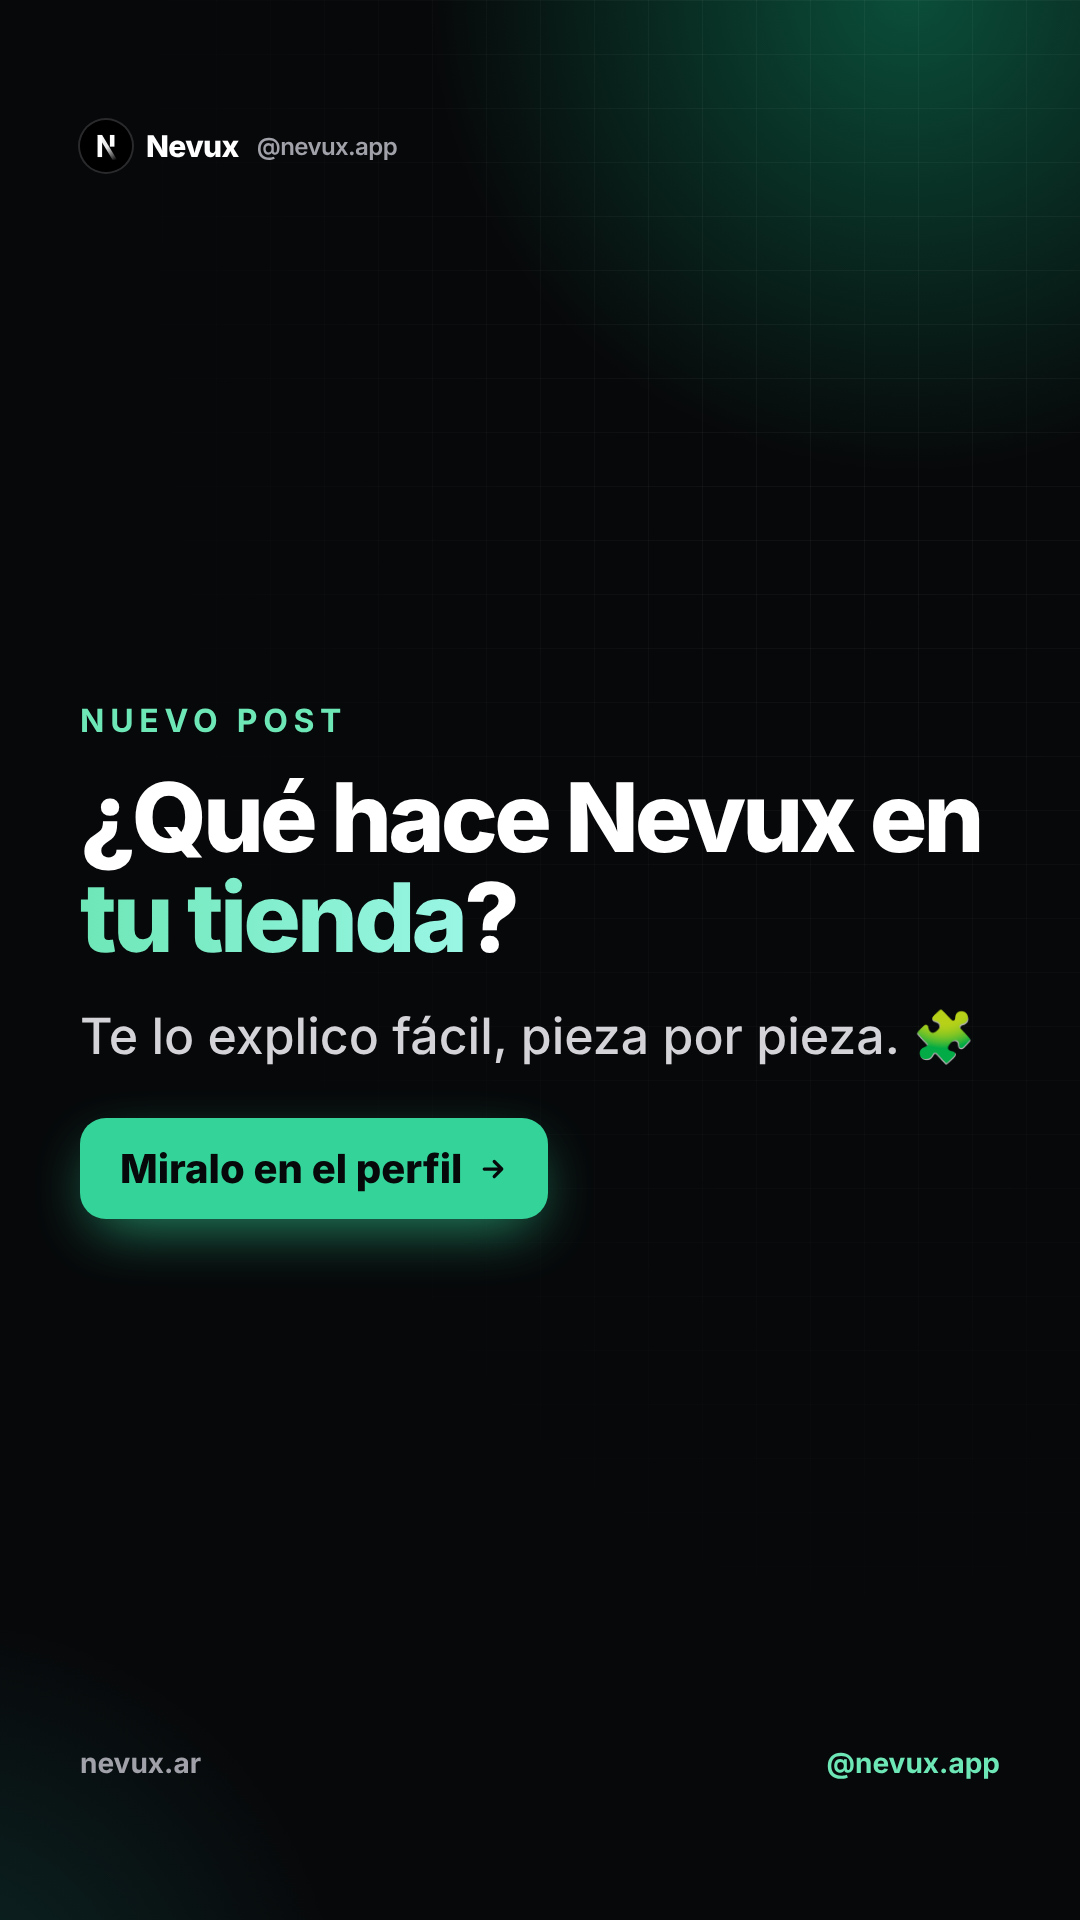
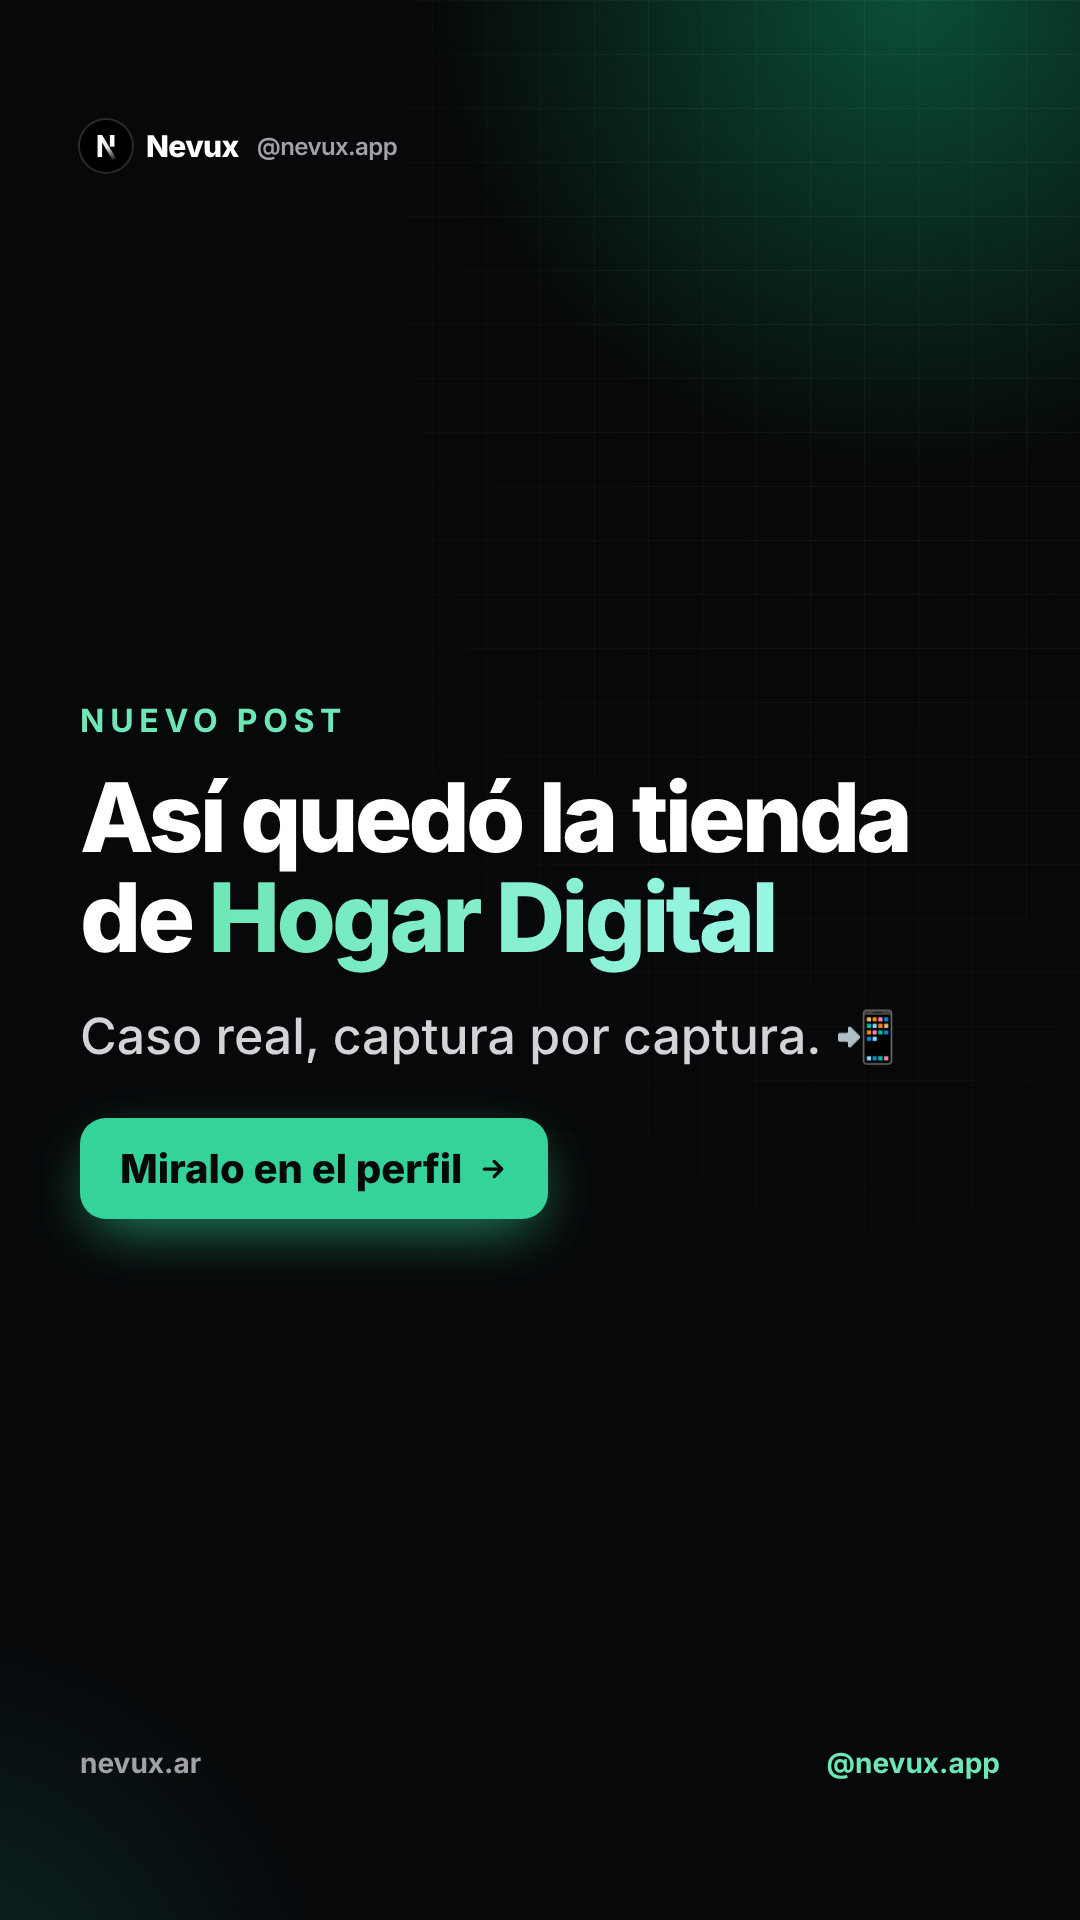
Instagram @nevux.app: martes 3/11 con la tienda real de Hogar Digital
Carrusel nuevo 07-hogar-digital-real con capturas de hogardigital.com.ar en celular
(configuración Premium de lib/clientes.ts, sin Semana Cyber ni avisos de compra de ejemplo).
Reemplaza al carrusel 04-que-hace-nevux, que usaba la ficha vieja simulada. Historia 1103-3 actualizada.

Claude-Session: https://claude.ai/code/session_01PDD9EqZWNqQ4aXwpvh1oBT

Changed region(s): [[0.0611, 0.4062, 0.9167, 0.5625]]

diff --git a/scripts/instagram/real-1.js b/scripts/instagram/real-1.js
@@ -1,0 +1,50 @@
+// Contenido con la tienda real de un cliente (pedido de Rodrigo, 02/11): nada de simulaciones.
+// Capturas de hogardigital.com.ar en celular (390 px, x3) con su configuración Premium de lib/clientes.ts,
+// sin la Semana Cyber (termina el 4/11) y sin los avisos de compra con nombres de ejemplo. Están en capturas/hd/.
+// Uso: node scripts/instagram/generar.js real-1
+const HASHTAGS = "#tiendanube #emprendedoresargentinos #tiendaonline #ecommerceargentina #ventasonline #emprender";
+const C = "capturas/hd/";
+
+module.exports = [
+  {
+    carpeta: "07-hogar-digital-real",
+    nombre: "Así quedó la tienda de Hogar Digital",
+    placas: [
+      { tipo: "foto", clase: "despues", etiqueta: "CASO REAL", titulo: "Así quedó la tienda de <span class=\"verde\">Hogar Digital</span>", img: C + "home-1.jpg" },
+      { tipo: "foto", clase: "despues", etiqueta: "1 · BENEFICIOS", titulo: "Envío, garantía y WhatsApp, lo primero que se ve", img: C + "home-2.jpg" },
+      { tipo: "foto", clase: "despues", etiqueta: "2 · DESTACADOS", titulo: "Precio y descuento a la vista, sin entrar", img: C + "home-3.jpg" },
+      { tipo: "foto", clase: "despues", etiqueta: "3 · COMUNIDAD", titulo: "Sus propios videos, con la cara de Marcelo", img: C + "home-4.jpg" },
+      { tipo: "foto", clase: "despues", etiqueta: "4 · NÚMEROS", titulo: "Su trayectoria en números reales", img: C + "home-6.jpg" },
+      { tipo: "foto", clase: "despues", etiqueta: "5 · EL LOCAL", titulo: "Dirección, horario y cómo llegar", img: C + "home-7.jpg" },
+      { tipo: "foto", clase: "despues", etiqueta: "6 · LA FICHA", titulo: "Precio claro y su promo por cantidad", img: C + "ficha-2.jpg" },
+      { tipo: "foto", clase: "despues", etiqueta: "7 · LAS DUDAS", titulo: "Las preguntas, respondidas antes de comprar", img: C + "ficha-3.jpg" },
+      {
+        tipo: "cta",
+        ultima: true,
+        eyebrow: "Sin apps · Sin cambiar de plantilla",
+        titulo: '¿Querés tu tienda <span class="verde">así</span>?',
+        texto: 'Misma Tiendanube, mismos productos, con sus datos reales.<br><br>Comentá <span class="palabra">FICHA</span> y te mostramos cómo quedaría la tuya.',
+      },
+    ],
+    caption: `Así quedó la tienda de Hogar Digital (@hogardigitaltiendaonline) con Nevux Premium 👇
+
+Es su Tiendanube de siempre: misma plataforma, mismos productos, mismos precios. Lo que cambia es lo que ve quien entra:
+
+🚚 Envío a todo el país, 30 días de garantía y atención por WhatsApp, apenas abre la tienda.
+🏷 Destacados con el precio y el descuento a la vista.
+🎥 Comunidad con sus propios videos.
+📊 Su trayectoria en números: más de 35 años, más de 300 ventas en 2026 y más de 800 calificaciones en Mercado Libre.
+📍 Su local en Campana, con horario y "Cómo llegar".
+🛒 Una ficha con el precio claro, su promo por cantidad y las preguntas respondidas antes de que tengan que escribir.
+
+Todo con sus datos reales: si algo no lo ofrece, no se muestra.
+
+✅ Sin apps
+✅ Sin cambiar de plantilla
+✅ Se instala con una línea de código
+
+👉 Comentá FICHA y te mostramos cómo quedaría la tuya.
+
+${HASHTAGS}`,
+  },
+];

diff --git a/scripts/instagram/historias-1.js b/scripts/instagram/historias-1.js
@@ -66,7 +66,7 @@ module.exports = {
       texto: "El primer precio que ve tu cliente se vuelve la referencia de todo lo demás. Se llama <b>anclaje</b>.<br><br>Por eso en un pack conviene mostrar primero el precio de 1 unidad, y después cuánto ahorra llevando 2.",
       pie: "Anclaje",
     },
-    nuevo("1103-3", "Nuevo post", '¿Qué hace Nevux en <span class="verde">tu tienda</span>?', "Te lo explico fácil, pieza por pieza. 🧩"),
+    nuevo("1103-3", "Nuevo post", 'Así quedó la tienda de <span class="verde">Hogar Digital</span>', "Caso real, captura por captura. 📲"),
 
     // Mié 4/11 · post: antes y después
     {
